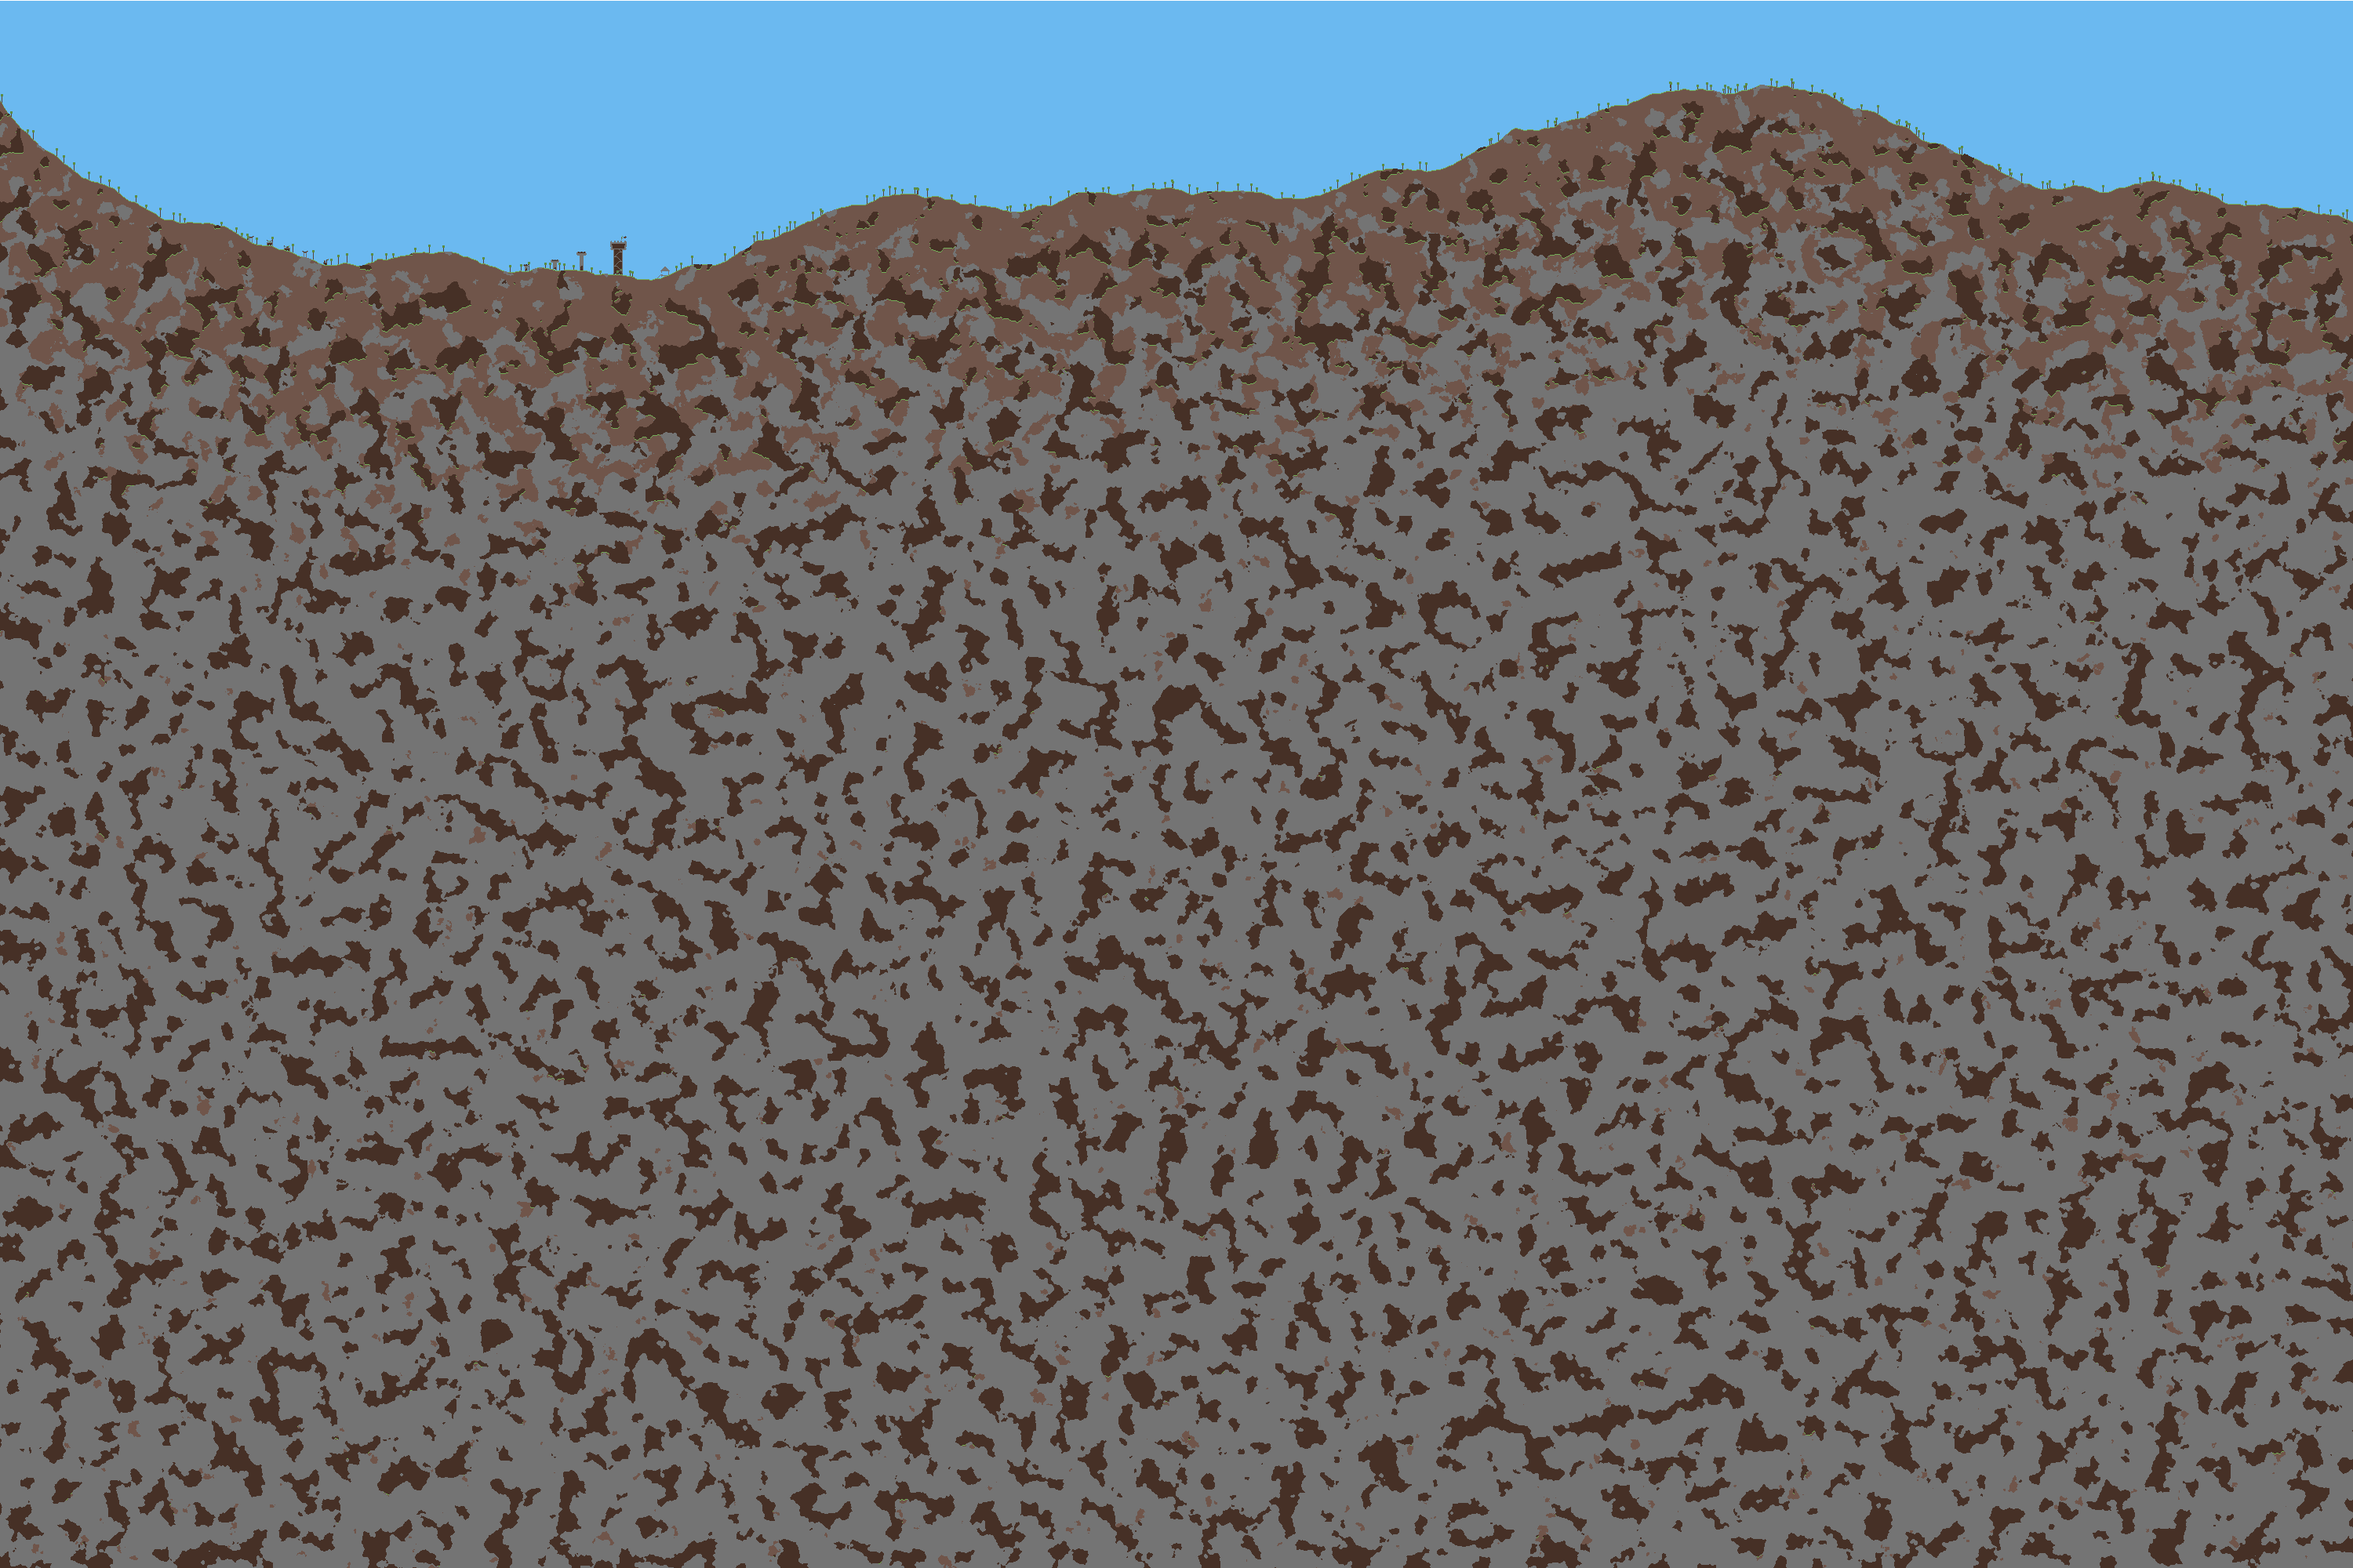
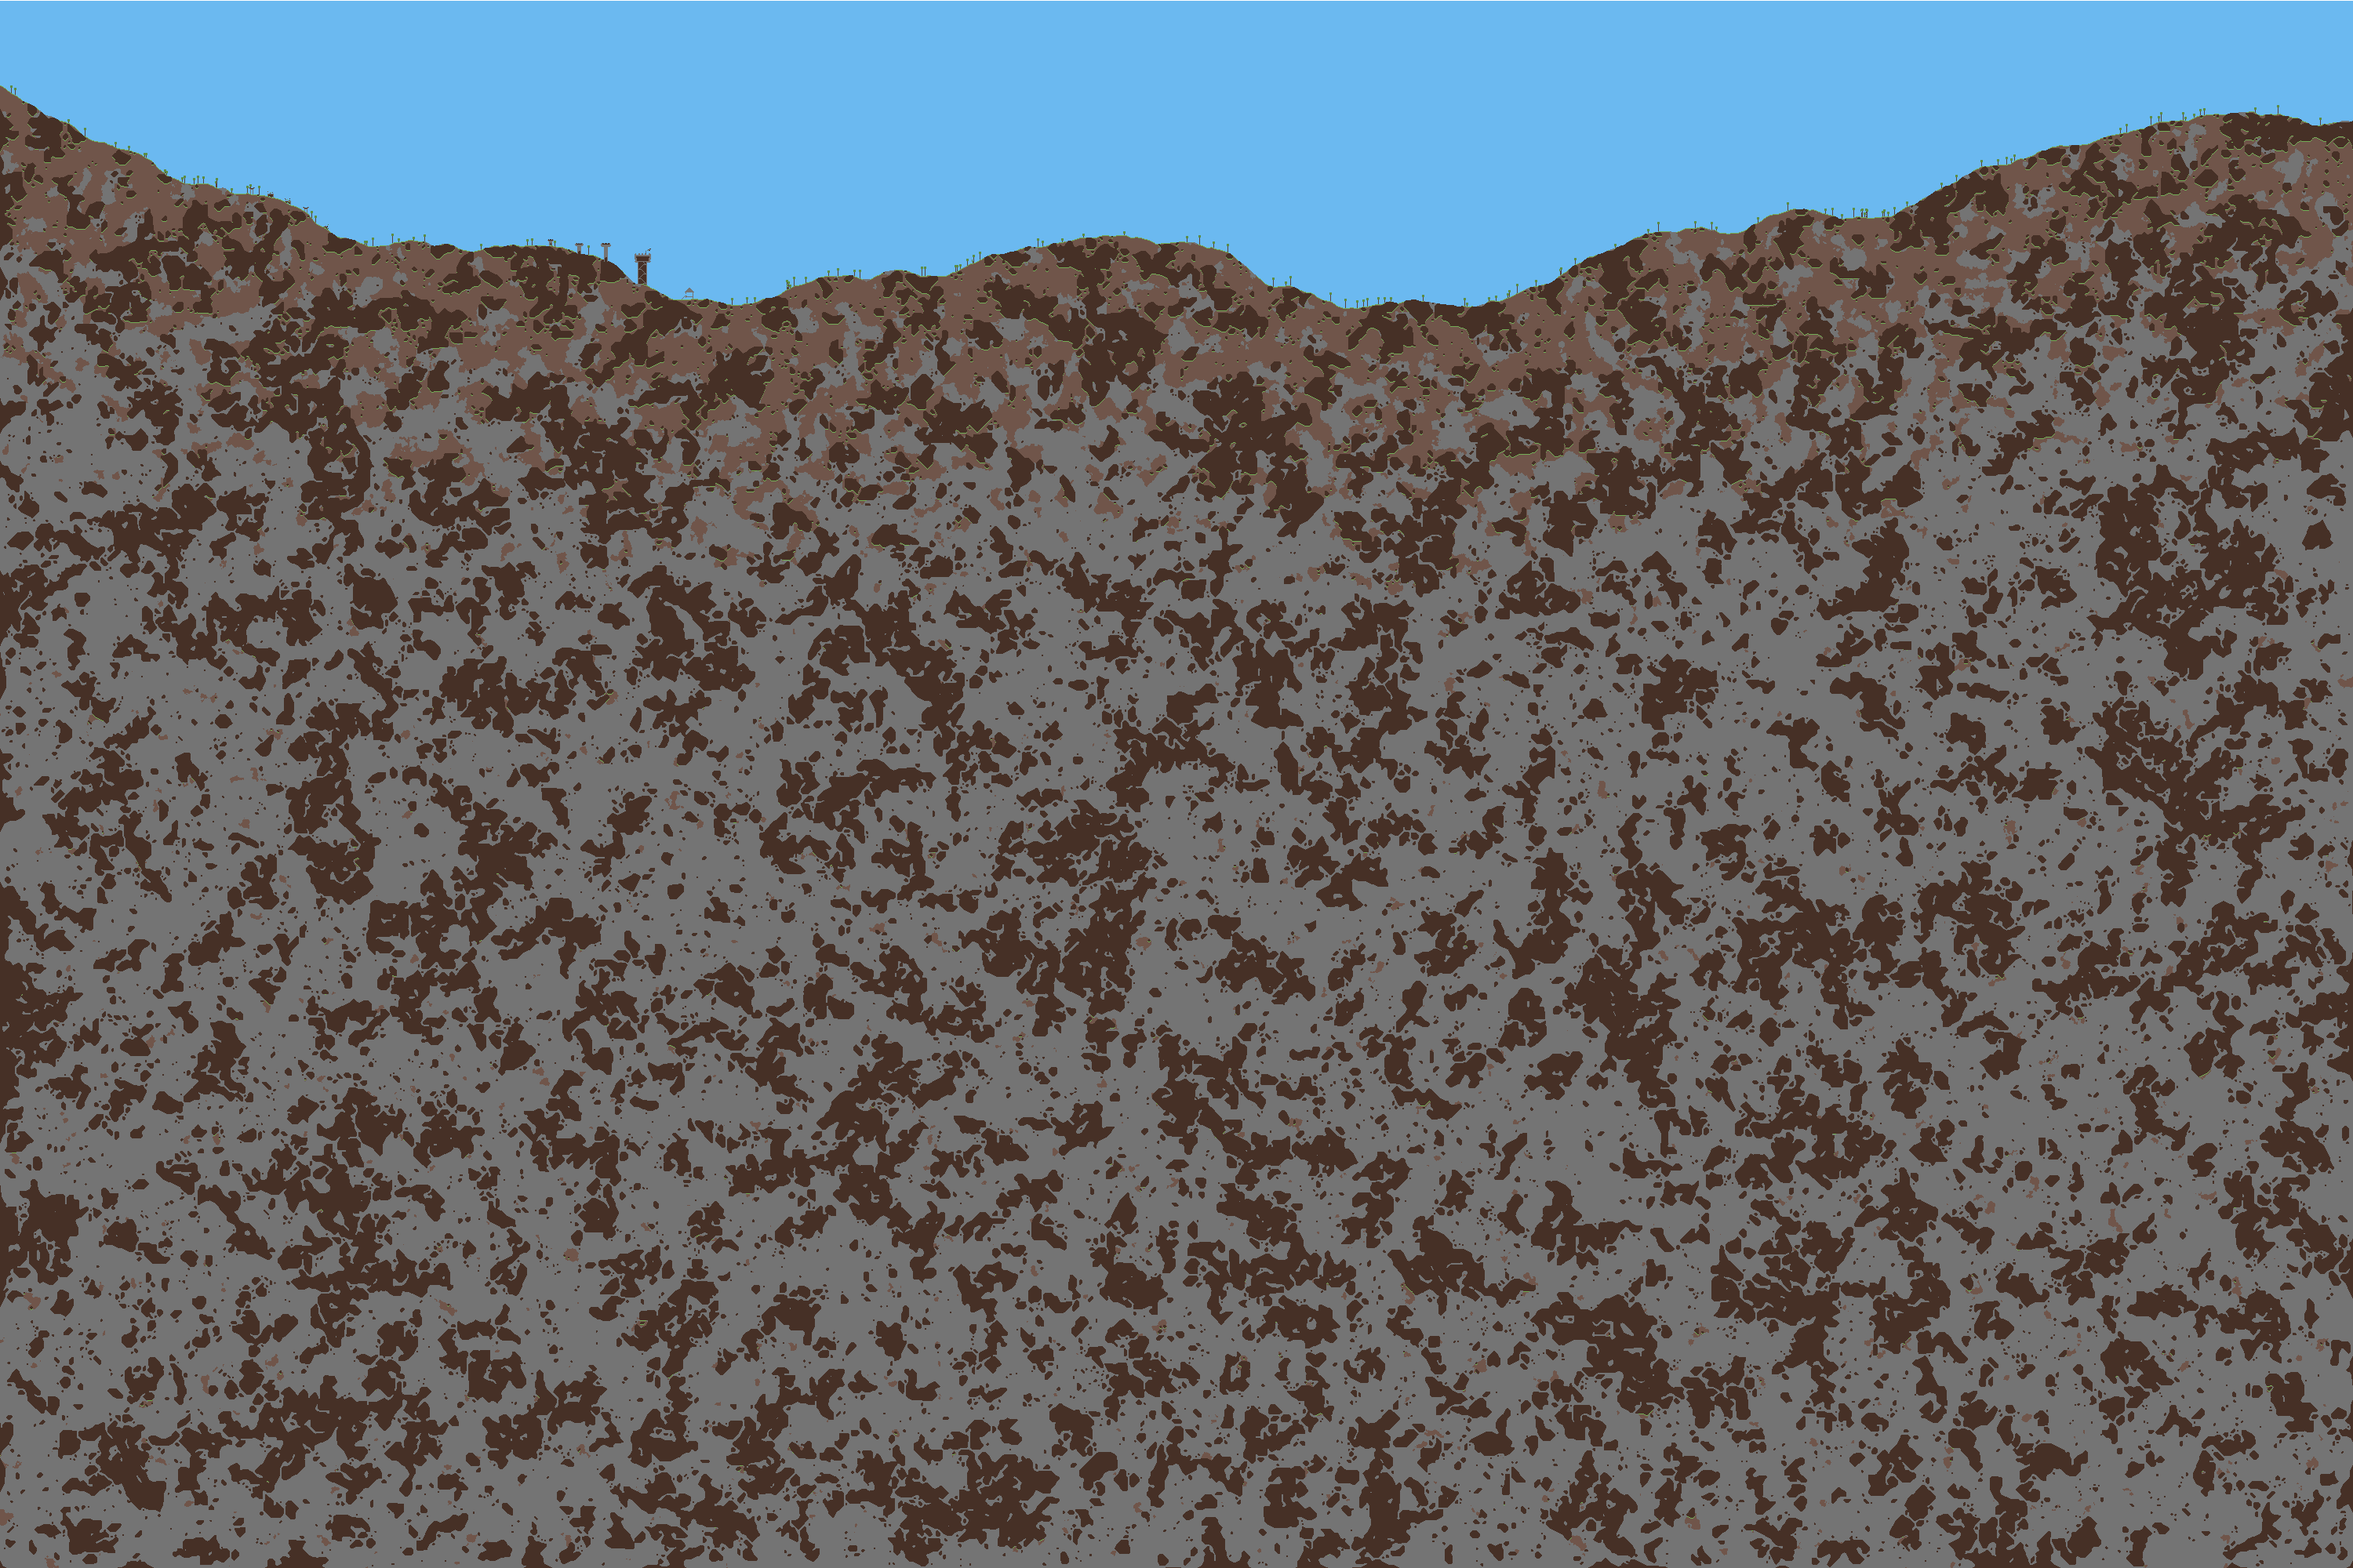
epic cave gen

diff --git a/cavegen.go b/cavegen.go
@@ -1,0 +1,158 @@
+package main
+
+import (
+	"math/rand"
+)
+
+func generateCaves() {
+	randomizeSeed()
+
+	CaveMap = make([][]bool, WorldWidth)
+	for x := range CaveMap {
+		CaveMap[x] = make([]bool, WorldHeight)
+	}
+
+	// Create caves with varying simplex noise
+	for x := 0; x < WorldWidth; x++ {
+		for y := HeightMap[x]; y >= 0; y-- {
+			if n := rand.Float32(); n < CaveStartingProbability {
+				CaveMap[x][y] = true
+			}
+		}
+	}
+
+	// Do cellular automata simulations
+	for i := 0; i < CaveIterations; i++ {
+		caveSimulationStep(CaveBirthLimit, CaveDeathLimit)
+	}
+
+	// Randomly kill some caves
+	for i := 0; i < 2000; i++ {
+		removeRandomCave()
+	}
+
+	// Do second round of cellular automata simulations (enlarge)
+	for i := 0; i < SecondCaveIterations; i++ {
+		caveSimulationStep(SecondCaveBirthLimit, SecondCaveDeathLimit)
+	}
+
+	// Kill tiny caves
+	removeSmallCaves()
+
+	// Translate to worldmap
+	for x := 0; x < WorldWidth; x++ {
+		for y := 0; y < WorldHeight; y++ {
+			if CaveMap[x][y] {
+				if y <= HeightMap[x] {
+					WorldMap.RemoveWorldBlock(x, y)
+					createBackBlock(x, y, "backdirt")
+				}
+			}
+		}
+	}
+}
+
+func caveSimulationStep(birthLim, deathLim int) {
+	newMap := make([][]bool, WorldWidth)
+	for x := range newMap {
+		newMap[x] = make([]bool, WorldHeight)
+	}
+
+	for x := 0; x < WorldWidth; x++ {
+		for y := 0; y < WorldHeight; y++ {
+			nbs := getAliveNeighbors(x, y)
+
+			if CaveMap[x][y] {
+				if nbs < deathLim {
+					newMap[x][y] = false
+				} else {
+					newMap[x][y] = true
+				}
+			} else {
+				if nbs > birthLim {
+					newMap[x][y] = true
+				} else {
+					newMap[x][y] = false
+				}
+			}
+		}
+	}
+
+	CaveMap = newMap
+}
+
+func removeRandomCave() {
+	for i := 0; i < 100; i++ {
+		x := rand.Intn(WorldWidth)
+		y := rand.Intn(WorldHeight)
+		if CaveMap[x][y] {
+			killCave(x, y)
+			return
+		}
+	}
+}
+
+func killCave(x, y int) {
+	if x < 0 || x >= WorldWidth || y < 0 || y >= WorldHeight {
+		return
+	}
+	if CaveMap[x][y] == false {
+		return
+	}
+
+	CaveMap[x][y] = false
+
+	killCave(x+1, y)
+	killCave(x-1, y)
+	killCave(x, y+1)
+	killCave(x, y-1)
+}
+
+func removeSmallCaves() {
+	for x := 0; x < WorldWidth; x++ {
+		for y := HeightMap[x]; y >= 0; y-- {
+			if CaveMap[x][y] {
+				if r := recurseSize(x, y, 6); r < 12 {
+					killCave(x, y)
+				}
+			}
+		}
+	}
+}
+
+func recurseSize(x, y, limit int) int {
+	if limit < 0 {
+		return 0
+	}
+	if x < 0 || x >= WorldWidth || y < 0 || y >= WorldHeight {
+		return 0
+	}
+	if CaveMap[x][y] == false {
+		return 0
+	}
+	total := 1
+	total += recurseSize(x+1, y, limit-1)
+	total += recurseSize(x-1, y, limit-1)
+	total += recurseSize(x, y+1, limit-1)
+	total += recurseSize(x, y-1, limit-1)
+	return total
+}
+
+func getAliveNeighbors(x, y int) int {
+	count := 0
+	for i := -1; i < 2; i++ {
+		for j := -1; j < 2; j++ {
+			nx := x + i
+			ny := y + j
+
+			if i == 0 && j == 0 {
+
+			} else if nx < 0 || nx >= WorldWidth || ny < 0 || ny >= WorldHeight {
+				count++
+			} else if CaveMap[nx][ny] {
+				count++
+			}
+		}
+	}
+	return count
+}

diff --git a/worldgen.go b/worldgen.go
@@ -143,98 +143,6 @@ func cleanStone() {
 	}
 }
 
-func generateCaves() {
-	randomizeSeed()
-
-	CaveMap = make([][]bool, WorldWidth)
-	for x := range CaveMap {
-		CaveMap[x] = make([]bool, WorldHeight)
-	}
-
-	// Create caves with varying simplex noise
-	gen := procedural.NewSimplexGenerator(100, 1, 0.5, 8, Seed)
-	for x := 0; x < WorldWidth; x++ {
-		thresh := float64(CaveStartingThreshold)
-		for y := HeightMap[x]; y >= 0; y-- {
-			n := gen.Noise2D(float64(x)/3000, float64(y)/3000)
-
-			if n < thresh {
-				CaveMap[x][y] = true
-			}
-
-			thresh += CaveThresholdDelta
-			if thresh > CaveEndingThreshold {
-				thresh = CaveEndingThreshold
-			}
-		}
-	}
-
-	// Do cellular automata simulations
-	for i := 0; i < CaveIterations; i++ {
-		caveSimulationStep()
-	}
-
-	// Translate to worldmap
-	for x := 0; x < WorldWidth; x++ {
-		for y := 0; y < WorldHeight; y++ {
-			if CaveMap[x][y] {
-				if y <= HeightMap[x] {
-					WorldMap.RemoveWorldBlock(x, y)
-					createBackBlock(x, y, "backdirt")
-				}
-			}
-		}
-	}
-}
-
-func caveSimulationStep() {
-	newMap := make([][]bool, WorldWidth)
-	for x := range newMap {
-		newMap[x] = make([]bool, WorldHeight)
-	}
-
-	for x := 0; x < WorldWidth; x++ {
-		for y := 0; y < WorldHeight; y++ {
-			nbs := getAliveNeighbors(x, y)
-
-			if CaveMap[x][y] {
-				if nbs < CaveDeathLimit {
-					newMap[x][y] = false
-				} else {
-					newMap[x][y] = true
-				}
-			} else {
-				if nbs > CaveBirthLimit {
-					newMap[x][y] = true
-				} else {
-					newMap[x][y] = false
-				}
-			}
-		}
-	}
-
-	CaveMap = newMap
-}
-
-func getAliveNeighbors(x, y int) int {
-	count := 0
-	for i := -1; i < 2; i++ {
-		for j := -1; j < 2; j++ {
-			nx := x + i
-			ny := y + j
-
-			if i == 0 && j == 0 {
-
-			} else if nx < 0 || nx >= WorldWidth || ny < 0 || ny >= WorldHeight {
-				count++
-			} else if CaveMap[nx][ny] {
-				count++
-			}
-		}
-	}
-	return count
-}
-
 func cleanBackDirt() {
 
 }

diff --git a/globals.go b/globals.go
@@ -53,13 +53,19 @@ const Flatness = 0.25
 const GrassMinimum = 1500
 
 // Cave generation
+const CaveStartingProbability = 0.42
+
 const CaveStartingThreshold = 0.27
 const CaveEndingThreshold = 0.4
 const CaveThresholdDelta = 0.002
 
-const CaveIterations = 5
+const CaveIterations = 20
 const CaveBirthLimit = 4
-const CaveDeathLimit = 2
+const CaveDeathLimit = 3
+
+const SecondCaveIterations = 10
+const SecondCaveBirthLimit = 3
+const SecondCaveDeathLimit = 2
 
 // Stone generation
 const StoneFrequencyDelta = 0.001
